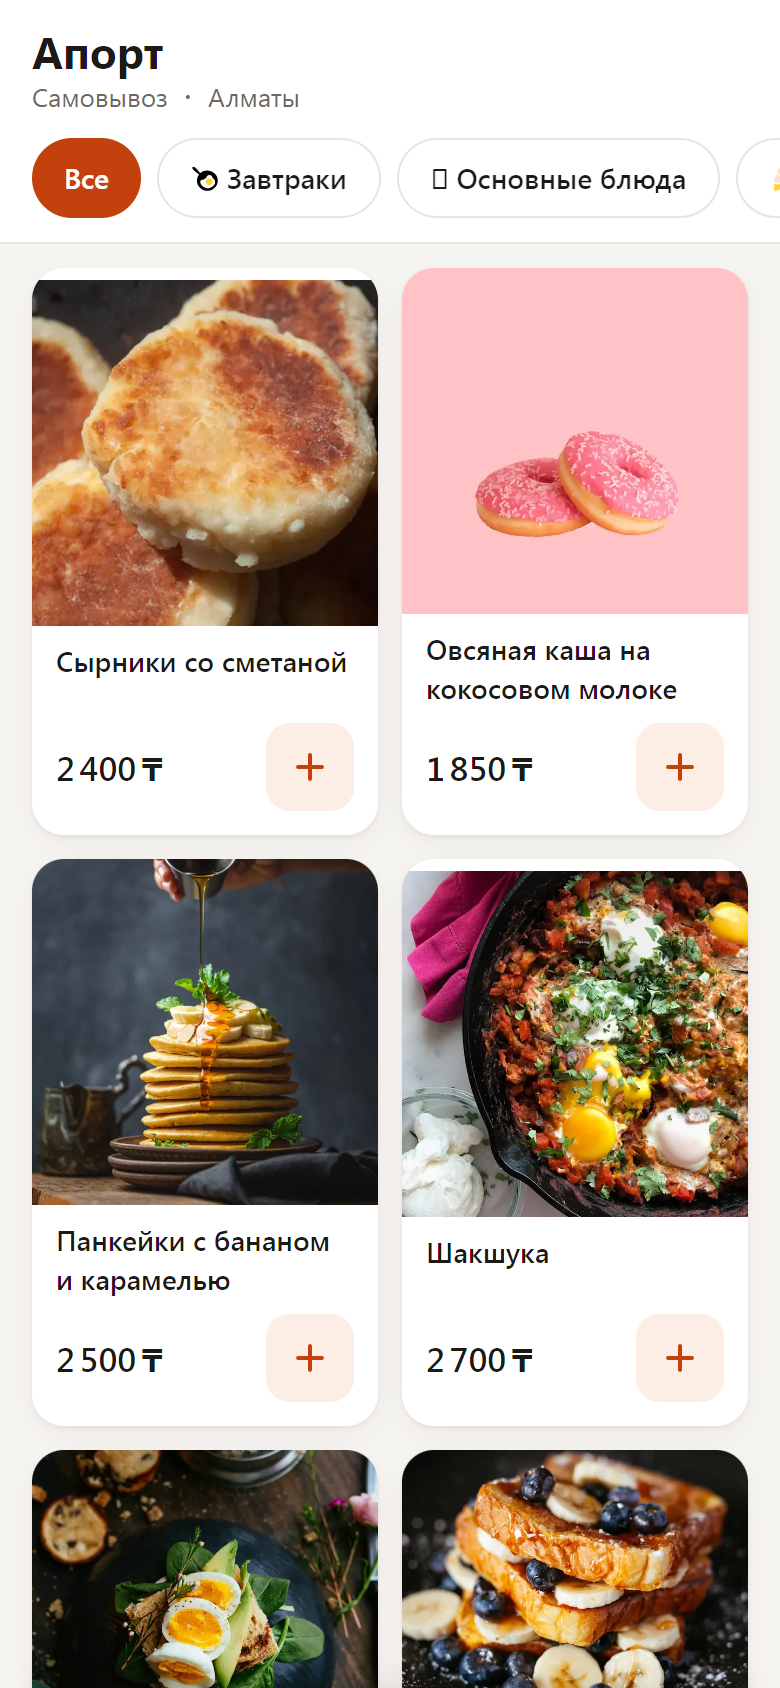
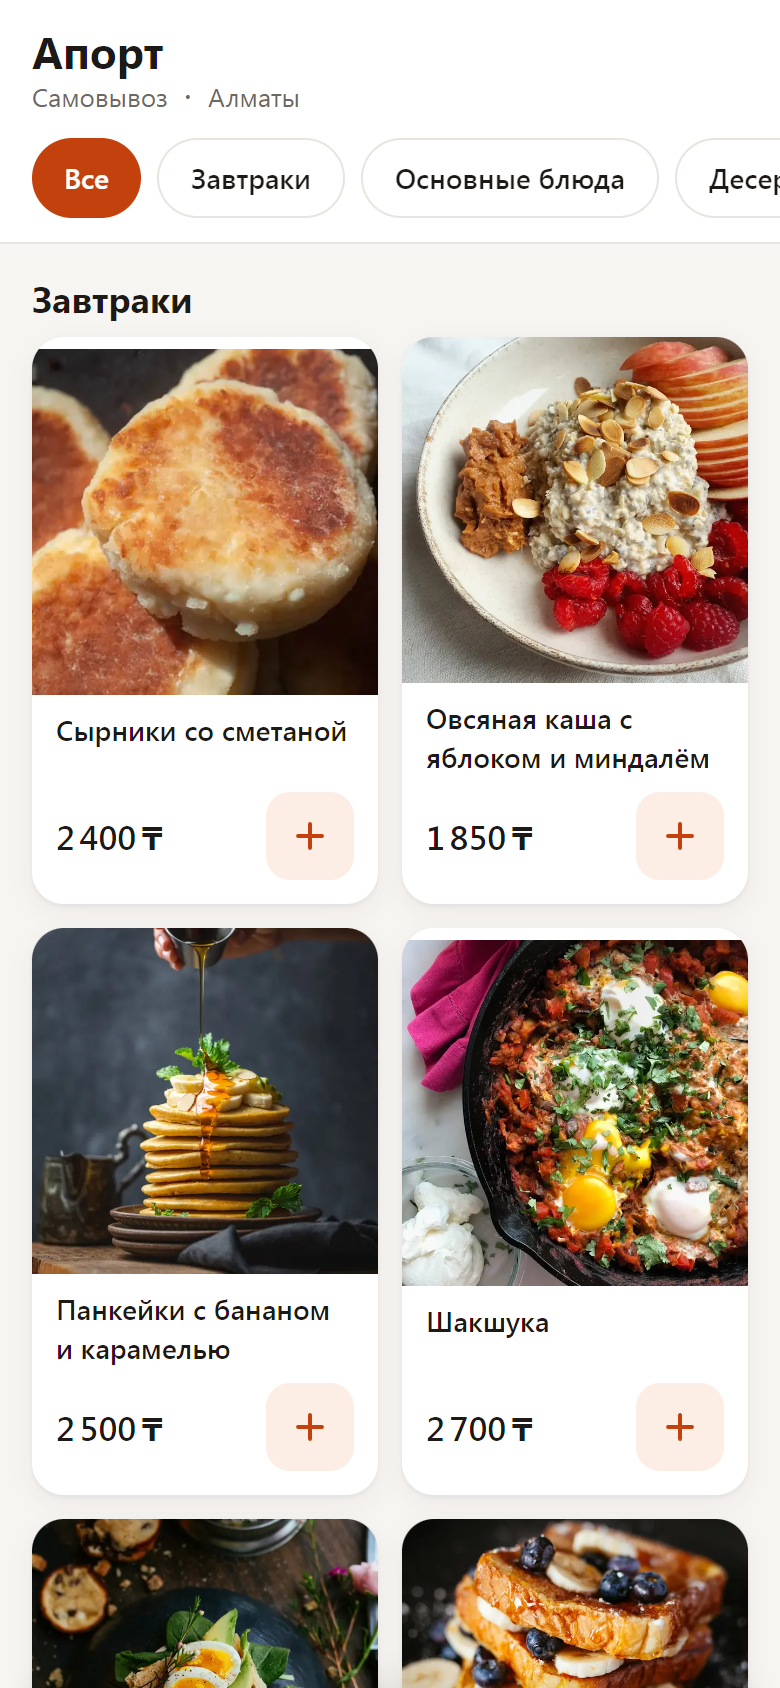
fix(menu): чипсы категорий без эмодзи, секции с заголовками в режиме «Все»
Вне Telegram эмодзи в чипсах рендерились монохромными глифами.
Плоская сетка «Все» заменена секциями по категориям (h2), названия
блюд вернулись к h3 — иерархия заголовков корректна.

diff --git a/apps/miniapp/src/widgets/menu-catalog/ui/MenuCatalog.tsx b/apps/miniapp/src/widgets/menu-catalog/ui/MenuCatalog.tsx
@@ -32,21 +32,26 @@ export function MenuCatalog({ categories }: MenuCatalogProps) {
     setHydrated(true);
   }, []);
 
+  // Без эмодзи: вне Telegram (десктопные браузеры) они рендерятся
+  // монохромными глифами и разваливают вид ленты.
   const chipOptions = useMemo(
     () => [
       { value: ALL_CATEGORY, label: "Все" },
       ...categories.map((category) => ({
         value: category.id,
-        label: category.emoji ? `${category.emoji} ${category.name}` : category.name,
+        label: category.name,
       })),
     ],
     [categories],
   );
 
-  const visibleItems: MenuItemData[] =
+  // «Все» — секции по категориям с заголовками; конкретная категория — одна секция.
+  const visibleSections: MenuCategoryData[] =
     activeCategory === ALL_CATEGORY
-      ? categories.flatMap((category) => category.items)
-      : (categories.find((category) => category.id === activeCategory)?.items ?? []);
+      ? categories.filter((category) => category.items.length > 0)
+      : categories.filter((category) => category.id === activeCategory);
+
+  const hasItems = visibleSections.some((section) => section.items.length > 0);
 
   const handleCategoryChange = (value: string) => {
     haptic.selection();
@@ -78,7 +83,7 @@ export function MenuCatalog({ categories }: MenuCatalogProps) {
         </div>
       </div>
 
-      {visibleItems.length === 0 ? (
+      {!hasItems ? (
         <div className="px-4 pt-12">
           <EmptyState
             title="В этой категории пока пусто"
@@ -90,17 +95,24 @@ export function MenuCatalog({ categories }: MenuCatalogProps) {
           />
         </div>
       ) : (
-        <div className="grid grid-cols-2 gap-3 px-4 pt-3">
-          {visibleItems.map((item, index) => (
-            <DishCard
-              key={item.id}
-              item={item}
-              onOpen={handleOpenItem}
-              hydrated={hydrated}
-              priority={index < 4}
-            />
-          ))}
-        </div>
+        visibleSections.map((section, sectionIndex) => (
+          <section key={section.id} className="px-4 pt-4">
+            <h2 className="pb-2 text-lg font-bold leading-tight text-ink">
+              {section.name}
+            </h2>
+            <div className="grid grid-cols-2 gap-3">
+              {section.items.map((item, index) => (
+                <DishCard
+                  key={item.id}
+                  item={item}
+                  onOpen={handleOpenItem}
+                  hydrated={hydrated}
+                  priority={sectionIndex === 0 && index < 4}
+                />
+              ))}
+            </div>
+          </section>
+        ))
       )}
 
       <DishSheet

diff --git a/apps/miniapp/src/widgets/menu-catalog/ui/DishCard.tsx b/apps/miniapp/src/widgets/menu-catalog/ui/DishCard.tsx
@@ -91,9 +91,9 @@ export function DishCard({ item, onOpen, hydrated, priority = false }: DishCardP
             </div>
           )}
         </div>
-        <h2 className="line-clamp-2 min-h-[2.5em] px-3 pt-2 text-sm font-medium leading-snug text-ink">
+        <h3 className="line-clamp-2 min-h-[2.5em] px-3 pt-2 text-sm font-medium leading-snug text-ink">
           {item.name}
-        </h2>
+        </h3>
       </button>
 
       <div className="flex items-center justify-between gap-2 px-3 pb-3 pt-2">